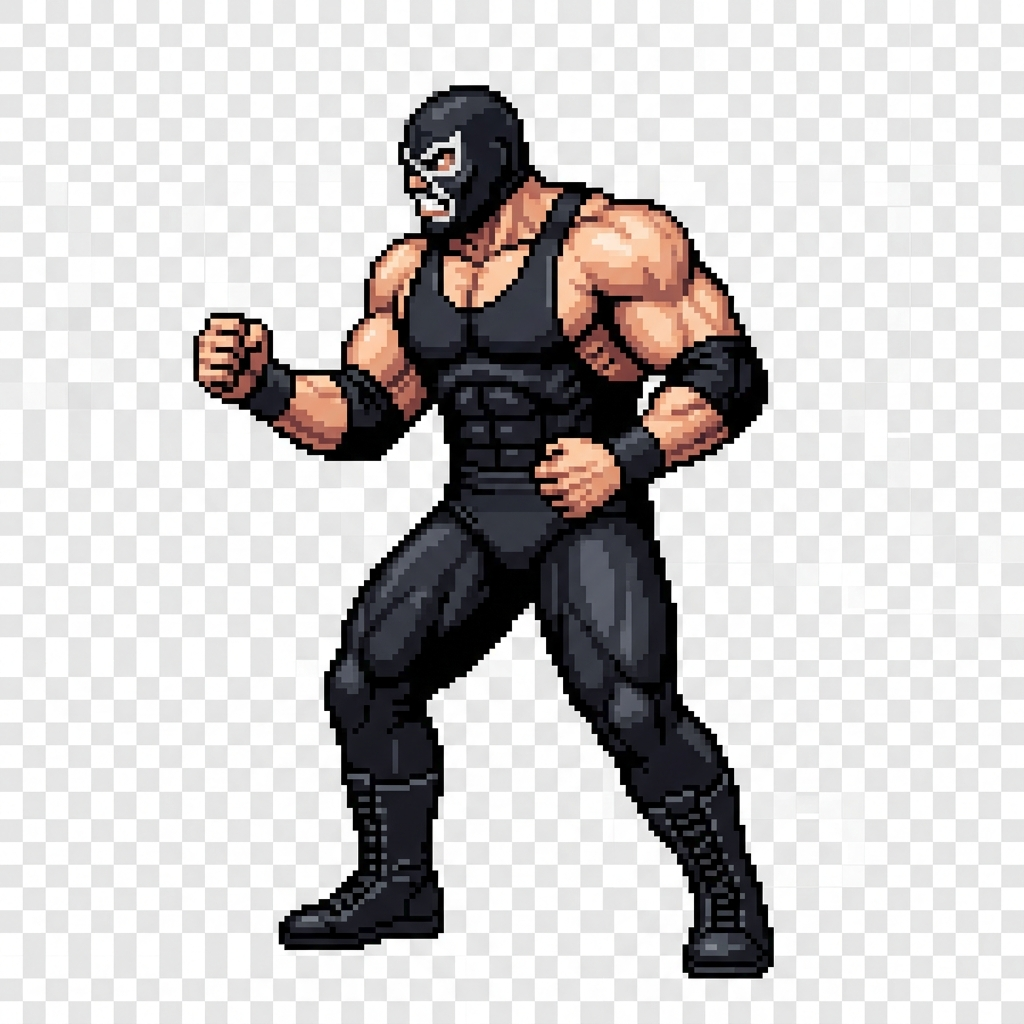
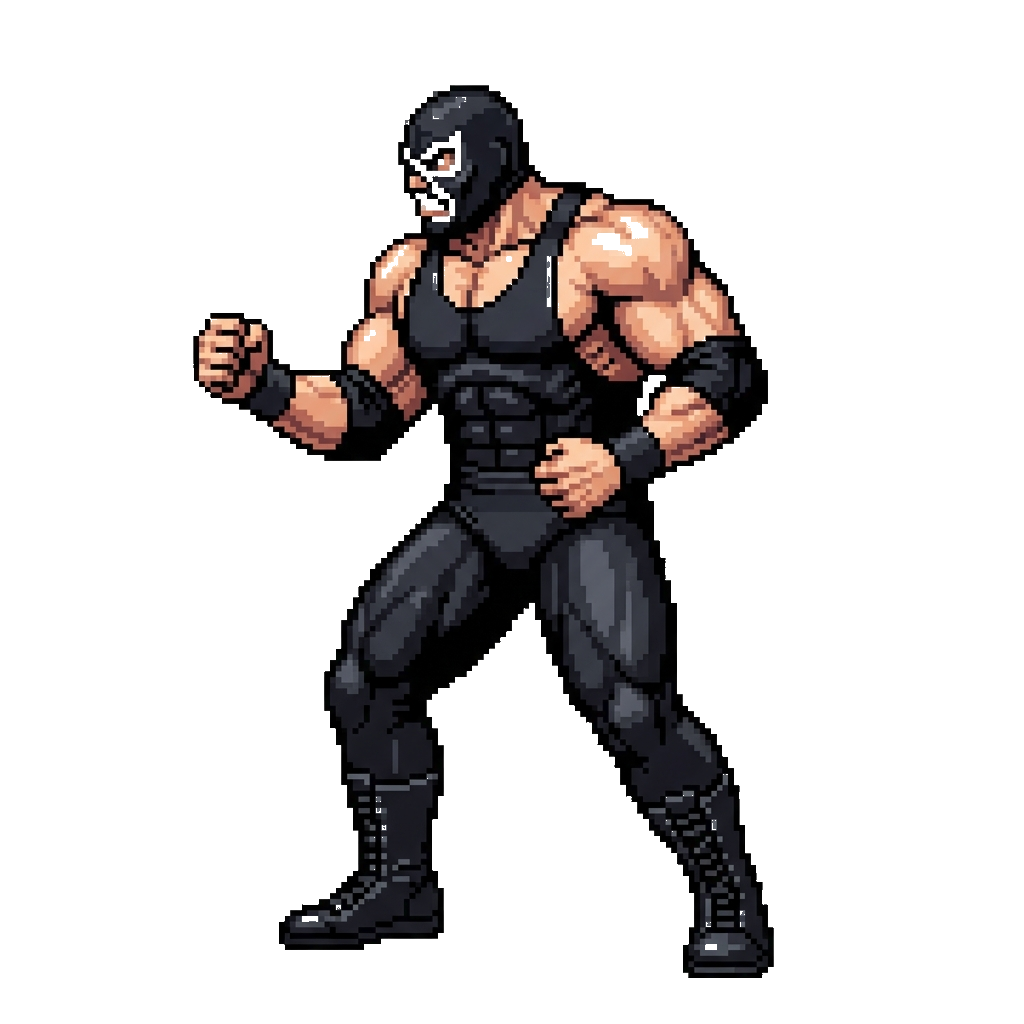
fix: make character background transparent

diff --git a/src/app/index.tsx b/src/app/index.tsx
@@ -1,10 +1,11 @@
 import React, { useState, useEffect, useRef } from 'react';
-import { StyleSheet, Text, View, TouchableOpacity, SafeAreaView, Animated, ImageBackground } from 'react-native';
+import { StyleSheet, Text, View, TouchableOpacity, SafeAreaView, ImageBackground, Image } from 'react-native';
 
 const PLAYER_MAX_HP = 100;
 const ENEMY_MAX_HP = 120;
 const ARENA_WIDTH = 400; 
 const ARENA_HEIGHT = 300;
+const ENEMY_POS = { x: 250, y: 150 };
 
 export default function WrestlingGame() {
   const [playerHp, setPlayerHp] = useState(PLAYER_MAX_HP);
@@ -13,22 +14,10 @@ export default function WrestlingGame() {
   const [isGameOver, setIsGameOver] = useState(false);
   const [isPlayerTurn, setIsPlayerTurn] = useState(true);
 
-  // プレイヤーと敵の座標を Animated.ValueXY で管理
-  const playerPosition = useRef(new Animated.ValueXY({ x: 50, y: 120 })).current;
-  const enemyPosition = useRef(new Animated.ValueXY({ x: 200, y: 120 })).current;
-
-  // アニメーション用のOpacity
-  const playerOpacity = useRef(new Animated.Value(1)).current;
-  const enemyOpacity = useRef(new Animated.Value(1)).current;
-
-  // 座標をトラッキングするためのリスナー（当たり判定用）
-  const playerCoords = useRef({ x: 50, y: 120 });
-  useEffect(() => {
-    const listener = playerPosition.addListener(value => {
-      playerCoords.current = value;
-    });
-    return () => playerPosition.removeListener(listener);
-  }, []);
+  // プレイヤーの座標を単純なStateで管理（確実に動くように）
+  const [playerPos, setPlayerPos] = useState({ x: 50, y: 150 });
+  const [playerOpacity, setPlayerOpacity] = useState(1);
+  const [enemyOpacity, setEnemyOpacity] = useState(1);
 
   const addMessage = (msg: string) => {
     setMessages(prev => {
@@ -40,79 +29,60 @@ export default function WrestlingGame() {
 
   // 移動処理 (十字キー)
   const move = (dx: number, dy: number) => {
-    if (isGameOver) return;
-    let newX = playerCoords.current.x + dx;
-    let newY = playerCoords.current.y + dy;
-    
-    // リング外に出ないように制限
-    if (newX < -30) newX = -30;
-    if (newX > ARENA_WIDTH - 100) newX = ARENA_WIDTH - 100;
-    if (newY < 20) newY = 20; 
-    if (newY > ARENA_HEIGHT - 120) newY = ARENA_HEIGHT - 120;
+    if (isGameOver || !isPlayerTurn) return;
+    setPlayerPos(prev => {
+      let newX = prev.x + dx;
+      let newY = prev.y + dy;
+      
+      // リング外に出ないように制限
+      if (newX < -30) newX = -30;
+      if (newX > ARENA_WIDTH - 100) newX = ARENA_WIDTH - 100;
+      if (newY < 20) newY = 20; 
+      if (newY > ARENA_HEIGHT - 120) newY = ARENA_HEIGHT - 120;
 
-    // アニメーションでスムーズに移動させる
-    Animated.timing(playerPosition, {
-      toValue: { x: newX, y: newY },
-      duration: 100,
-      useNativeDriver: false 
-    }).start();
-  };
+      // すり抜け防止（敵との衝突判定）
+      const distX = Math.abs(newX - ENEMY_POS.x);
+      const distY = Math.abs(newY - ENEMY_POS.y);
+      if (distX < 60 && distY < 30) {
+        // 敵と重なる場合は移動をキャンセルする
+        return prev;
+      }
 
-  // 当たり判定
-  const checkHit = () => {
-    const distX = playerCoords.current.x - 200; // 敵のX座標
-    const distY = playerCoords.current.y - 120; // 敵のY座標
-    const distance = Math.sqrt(distX * distX + distY * distY);
-    return distance < 120; // 当たり判定を大きく
-  };
-
-  // 揺れ・点滅アニメーション
-  const shakeAnimation = (target: 'player' | 'enemy') => {
-    const targetAnim = target === 'player' ? playerPosition.x : enemyPosition.x;
-    const opacityAnim = target === 'player' ? playerOpacity : enemyOpacity;
-    const basePos = target === 'player' ? playerCoords.current.x : 200;
-    
-    Animated.sequence([
-      Animated.timing(opacityAnim, { toValue: 0.3, duration: 50, useNativeDriver: false }),
-      Animated.timing(targetAnim, { toValue: basePos - 15, duration: 50, useNativeDriver: false }),
-      Animated.timing(targetAnim, { toValue: basePos + 15, duration: 50, useNativeDriver: false }),
-      Animated.timing(targetAnim, { toValue: basePos, duration: 50, useNativeDriver: false }),
-      Animated.timing(opacityAnim, { toValue: 1, duration: 50, useNativeDriver: false })
-    ]).start();
-  };
-
-  // 突進アニメーション
-  const attackAnimation = (attacker: 'player' | 'enemy', callback: () => void) => {
-    const moveAnimX = attacker === 'player' ? playerPosition.x : enemyPosition.x;
-    const basePos = attacker === 'player' ? playerCoords.current.x : 200;
-    const direction = attacker === 'player' ? 60 : -60;
-
-    Animated.sequence([
-      Animated.timing(moveAnimX, { toValue: basePos + direction, duration: 150, useNativeDriver: false }),
-      Animated.timing(moveAnimX, { toValue: basePos, duration: 150, useNativeDriver: false })
-    ]).start(() => {
-      callback();
+      return { x: newX, y: newY };
     });
+  };
+
+  // 当たり判定（攻撃時）
+  const checkHit = () => {
+    const distX = playerPos.x - ENEMY_POS.x;
+    const distY = playerPos.y - ENEMY_POS.y;
+    const distance = Math.sqrt(distX * distX + distY * distY);
+    return distance < 100; // 攻撃が届く距離
+  };
+
+  // 揺れ・点滅アニメーションの代替（Stateでシンプルに実装）
+  const shakeAnimation = (target: 'player' | 'enemy') => {
+    const setOpacity = target === 'player' ? setPlayerOpacity : setEnemyOpacity;
+    setOpacity(0.3);
+    setTimeout(() => setOpacity(1), 150);
   };
 
   const enemyAttack = () => {
     if (isGameOver) return;
     setTimeout(() => {
-      attackAnimation('enemy', () => {
-        const damage = Math.floor(Math.random() * 15) + 5;
-        addMessage(`【敵の反撃】強烈なボディスラム！ あなたは ${damage} のダメージを受けた！`);
-        shakeAnimation('player');
-        setPlayerHp(prev => {
-          const newHp = Math.max(0, prev - damage);
-          if (newHp === 0) {
-            setIsGameOver(true);
-            addMessage('1... 2... 3... カンカンカン！ あなたは負けてしまった...');
-          }
-          return newHp;
-        });
-        setIsPlayerTurn(true);
+      const damage = Math.floor(Math.random() * 15) + 5;
+      addMessage(`【敵の反撃】強烈なボディスラム！ あなたは ${damage} のダメージを受けた！`);
+      shakeAnimation('player');
+      setPlayerHp(prev => {
+        const newHp = Math.max(0, prev - damage);
+        if (newHp === 0) {
+          setIsGameOver(true);
+          addMessage('1... 2... 3... カンカンカン！ あなたは負けてしまった...');
+        }
+        return newHp;
       });
-    }, 1500);
+      setIsPlayerTurn(true);
+    }, 1000);
   };
 
   const attack = (moveName: string, minDmg: number, maxDmg: number) => {
@@ -124,20 +94,20 @@ export default function WrestlingGame() {
     }
 
     setIsPlayerTurn(false);
-    attackAnimation('player', () => {
-      const damage = Math.floor(Math.random() * (maxDmg - minDmg + 1)) + minDmg;
-      addMessage(`【ヒット！】渾身の ${moveName} ！！ 敵に ${damage} のダメージ！`);
-      shakeAnimation('enemy');
-      setEnemyHp(prev => {
-        const newHp = Math.max(0, prev - damage);
-        if (newHp === 0) {
-          setIsGameOver(true);
-          addMessage('1... 2... 3... カンカンカン！ あなたの勝利です！！！');
-        } else {
-          enemyAttack();
-        }
-        return newHp;
-      });
+    
+    const damage = Math.floor(Math.random() * (maxDmg - minDmg + 1)) + minDmg;
+    addMessage(`【ヒット！】渾身の ${moveName} ！！ 敵に ${damage} のダメージ！`);
+    shakeAnimation('enemy');
+    
+    setEnemyHp(prev => {
+      const newHp = Math.max(0, prev - damage);
+      if (newHp === 0) {
+        setIsGameOver(true);
+        addMessage('1... 2... 3... カンカンカン！ あなたの勝利です！！！');
+      } else {
+        enemyAttack();
+      }
+      return newHp;
     });
   };
 
@@ -147,7 +117,7 @@ export default function WrestlingGame() {
     setMessages(['試合開始！十字キーで敵に近づいて技を決めろ！']);
     setIsGameOver(false);
     setIsPlayerTurn(true);
-    playerPosition.setValue({ x: 50, y: 120 });
+    setPlayerPos({ x: 50, y: 150 });
   };
 
   const getHpWidth = (hp: number, maxHp: number) => `${(hp / maxHp) * 100}%`;
@@ -157,6 +127,11 @@ export default function WrestlingGame() {
     if (ratio > 0.2) return '#ffeb3b';
     return '#f44336';
   };
+
+  // 常に対峙するための向き計算
+  const isPlayerRight = playerPos.x > ENEMY_POS.x;
+  const playerScaleX = isPlayerRight ? -1 : 1;
+  const enemyScaleX = isPlayerRight ? 1 : -1;
 
   return (
     <SafeAreaView style={styles.container}>
@@ -184,15 +159,21 @@ export default function WrestlingGame() {
       <View style={styles.arenaContainer}>
         <ImageBackground source={require('../../assets/images/ring.png')} style={styles.arena} resizeMode="cover">
           {/* 敵キャラクター */}
-          <Animated.Image 
+          <Image 
             source={require('../../assets/images/enemy.png')} 
-            style={[styles.character, { left: enemyPosition.x, top: enemyPosition.y, opacity: enemyOpacity }]} 
+            style={[
+              styles.character, 
+              { left: ENEMY_POS.x, top: ENEMY_POS.y, opacity: enemyOpacity, zIndex: ENEMY_POS.y, transform: [{ scaleX: enemyScaleX }] }
+            ]} 
             resizeMode="contain"
           />
           {/* プレイヤーキャラクター */}
-          <Animated.Image 
+          <Image 
             source={require('../../assets/images/player.png')} 
-            style={[styles.character, { left: playerPosition.x, top: playerPosition.y, opacity: playerOpacity }]} 
+            style={[
+              styles.character, 
+              { left: playerPos.x, top: playerPos.y, opacity: playerOpacity, zIndex: playerPos.y, transform: [{ scaleX: playerScaleX }] }
+            ]} 
             resizeMode="contain"
           />
         </ImageBackground>
@@ -205,20 +186,20 @@ export default function WrestlingGame() {
           </TouchableOpacity>
         ) : (
           <View style={styles.controlRow}>
-            {/* 十字キー (onPress => onPressIn に変更して即座に反応させる) */}
+            {/* 十字キー (onPress で確実に反応させる) */}
             <View style={styles.dpad}>
-              <TouchableOpacity style={[styles.dpadBtn, styles.dpadUp]} onPressIn={() => move(0, -30)}>
+              <TouchableOpacity style={[styles.dpadBtn, styles.dpadUp]} onPress={() => move(0, -30)}>
                 <Text style={styles.dpadText}>▲</Text>
               </TouchableOpacity>
               <View style={styles.dpadMiddleRow}>
-                <TouchableOpacity style={[styles.dpadBtn, styles.dpadLeft]} onPressIn={() => move(-30, 0)}>
+                <TouchableOpacity style={[styles.dpadBtn, styles.dpadLeft]} onPress={() => move(-30, 0)}>
                   <Text style={styles.dpadText}>◀</Text>
                 </TouchableOpacity>
-                <TouchableOpacity style={[styles.dpadBtn, styles.dpadRight]} onPressIn={() => move(30, 0)}>
+                <TouchableOpacity style={[styles.dpadBtn, styles.dpadRight]} onPress={() => move(30, 0)}>
                   <Text style={styles.dpadText}>▶</Text>
                 </TouchableOpacity>
               </View>
-              <TouchableOpacity style={[styles.dpadBtn, styles.dpadDown]} onPressIn={() => move(0, 30)}>
+              <TouchableOpacity style={[styles.dpadBtn, styles.dpadDown]} onPress={() => move(0, 30)}>
                 <Text style={styles.dpadText}>▼</Text>
               </TouchableOpacity>
             </View>
@@ -254,10 +235,9 @@ const styles = StyleSheet.create({
   arenaContainer: { flex: 1, margin: 10, backgroundColor: '#000', borderRadius: 8, overflow: 'hidden' },
   arena: { flex: 1, width: '100%', height: '100%', position: 'relative' },
   character: { 
-    width: 130, // キャラを大きく
+    width: 140, 
     height: 160, 
-    position: 'absolute',
-    mixBlendMode: 'multiply' as any // 白背景を透過させるWeb用ハック
+    position: 'absolute'
   }, 
   controllerArea: { height: 200, backgroundColor: '#333', padding: 10, borderTopWidth: 2, borderColor: '#555' },
   controlRow: { flexDirection: 'row', justifyContent: 'space-between', alignItems: 'center', flex: 1 },

diff --git a/scripts/remove_bg.py b/scripts/remove_bg.py
@@ -1,0 +1,20 @@
+from PIL import Image
+import os
+
+def remove_bg(p):
+    if not os.path.exists(p): return
+    img = Image.open(p).convert('RGBA')
+    datas = img.getdata()
+    newData = []
+    for item in datas:
+        r, g, b, a = item
+        # 白や明るいグレーの市松模様を透過
+        if (r > 190 and g > 190 and b > 190) or (abs(r-g)<15 and abs(g-b)<15 and r > 100):
+            newData.append((255, 255, 255, 0))
+        else:
+            newData.append(item)
+    img.putdata(newData)
+    img.save(p, 'PNG')
+
+remove_bg('assets/images/player.png')
+remove_bg('assets/images/enemy.png')
